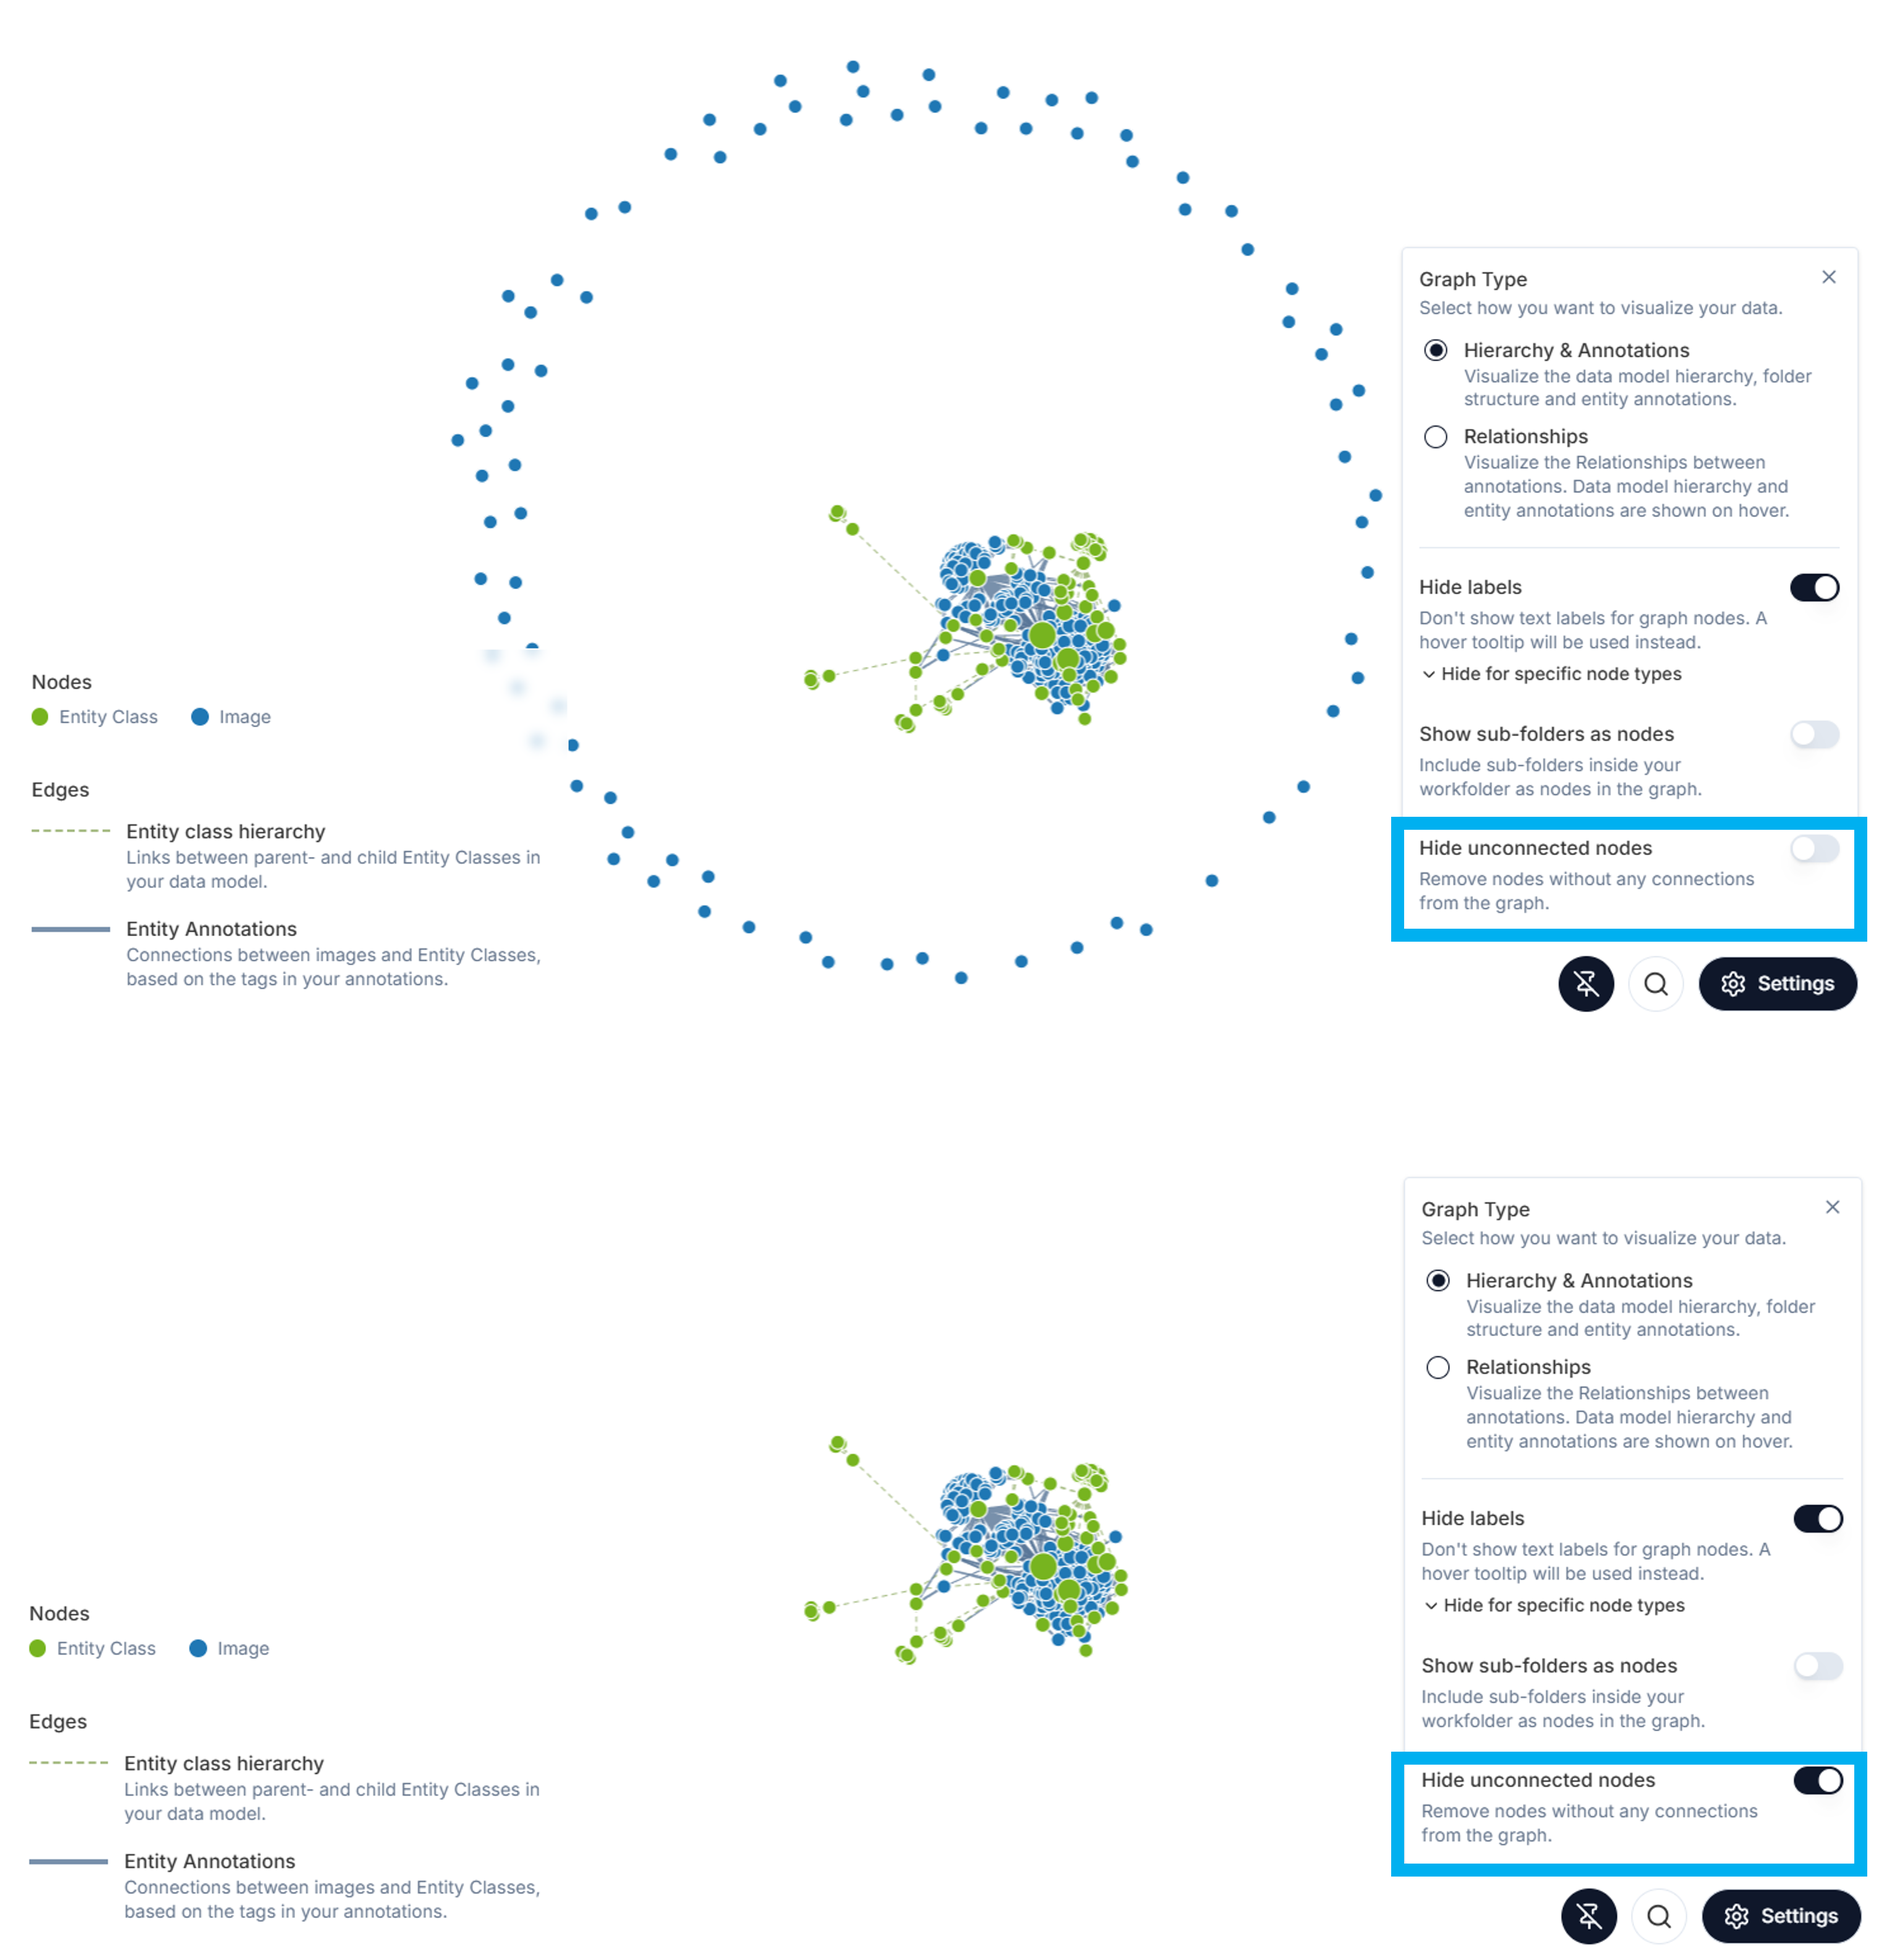
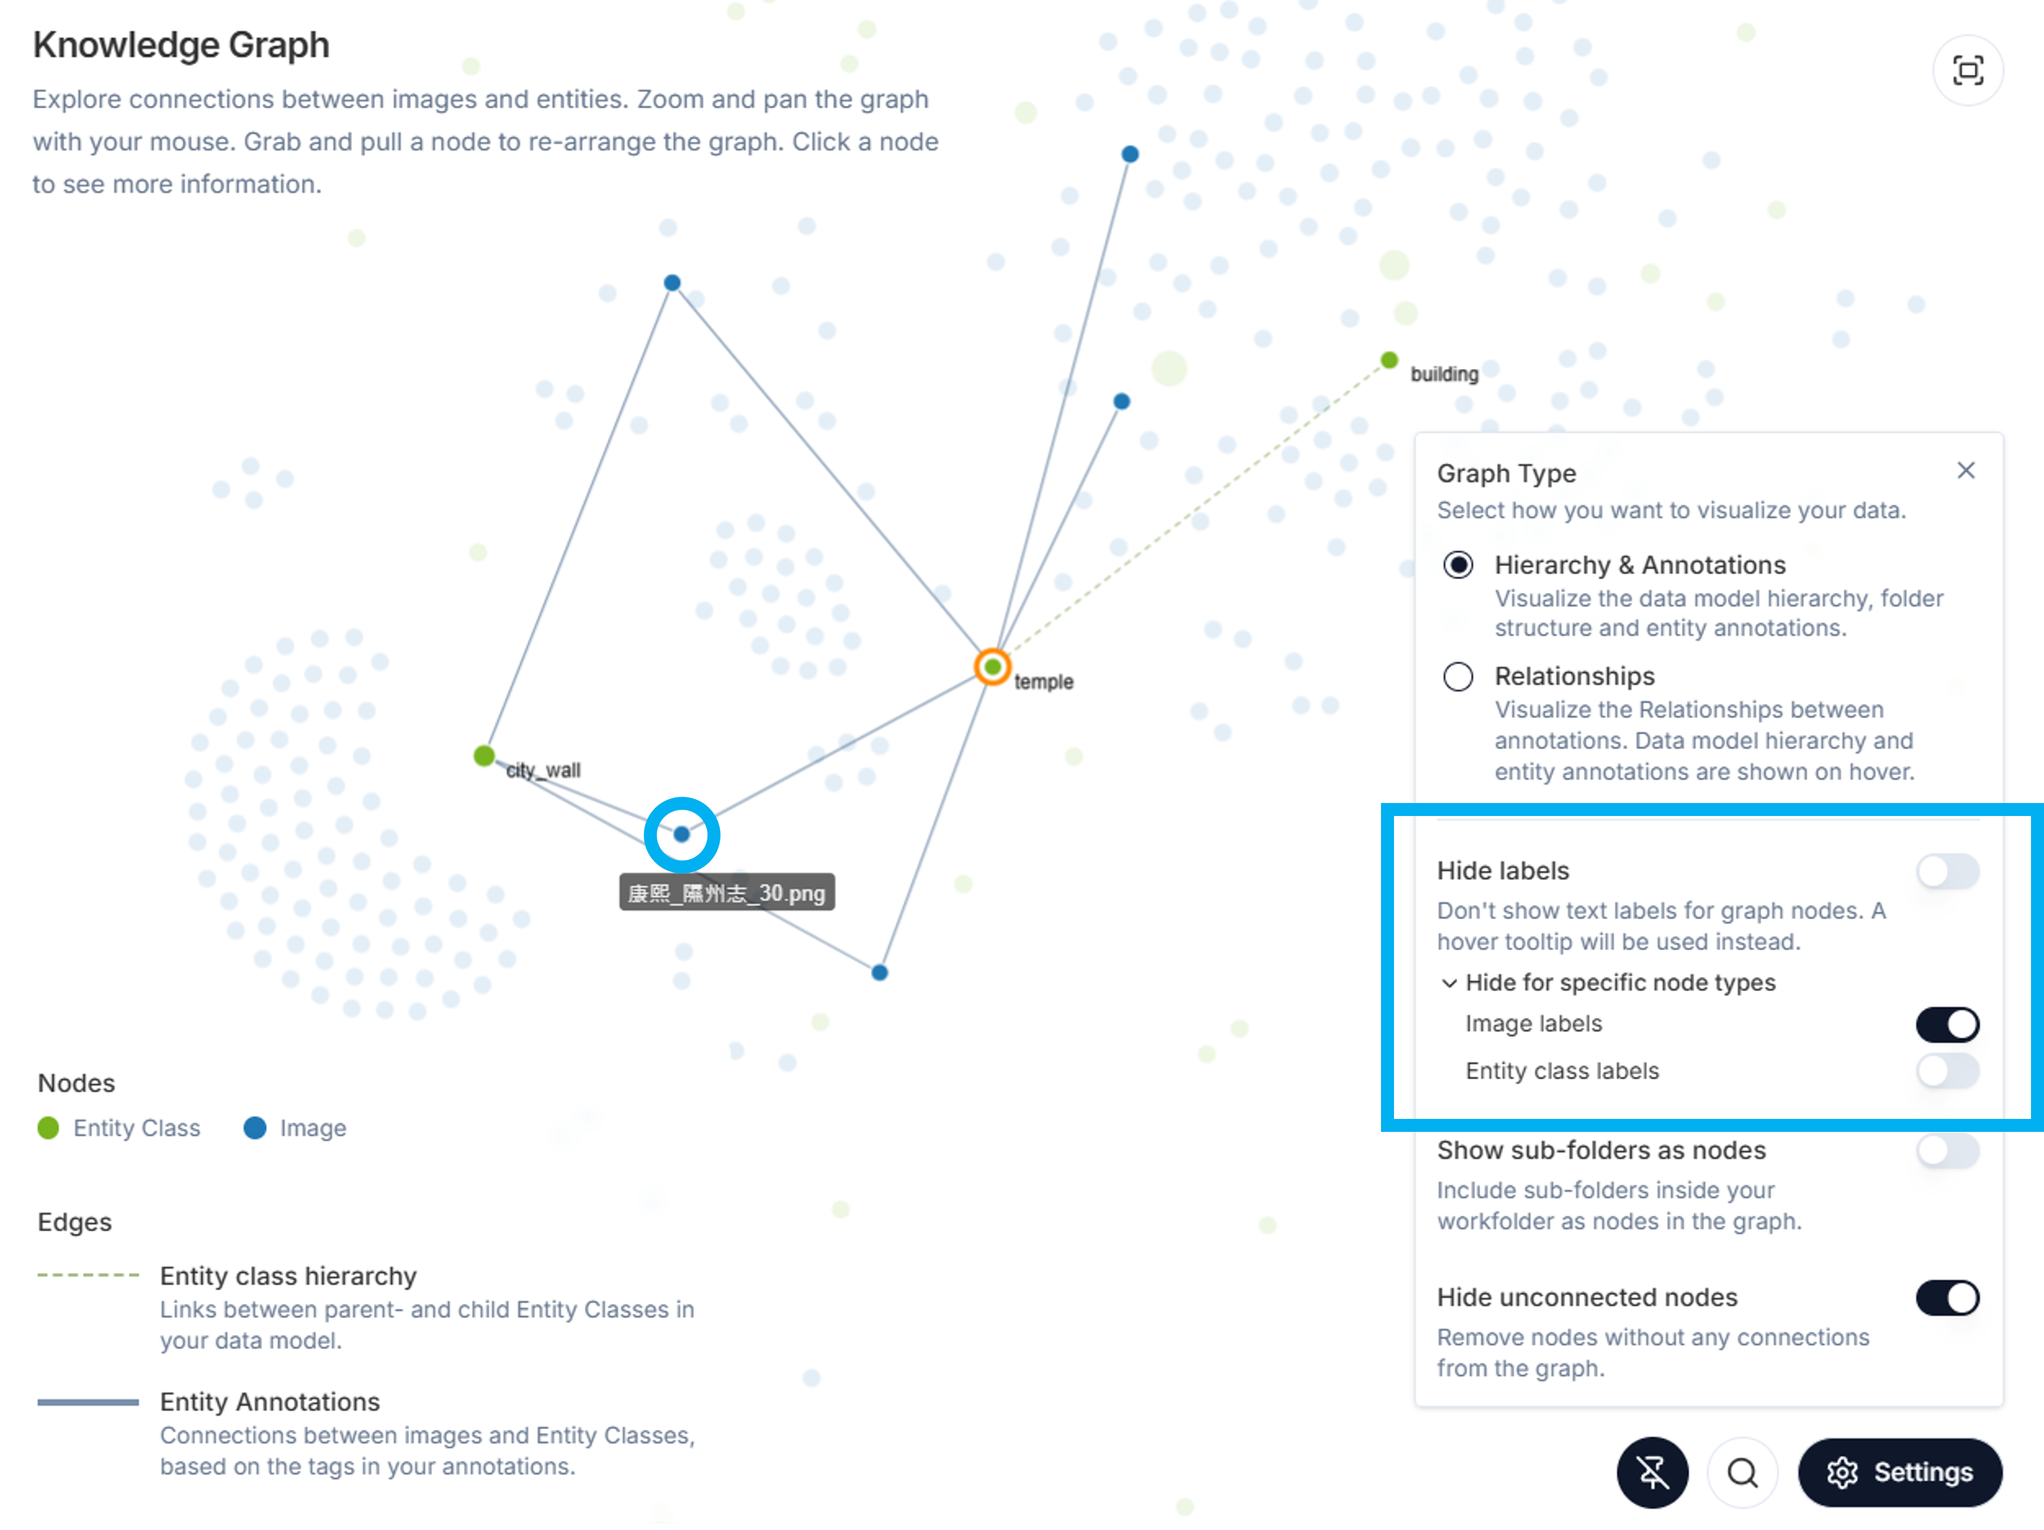
update settings

diff --git a/07-Exploring-Data-in-Knowledge-Graph.md b/07-Exploring-Data-in-Knowledge-Graph.md
@@ -55,35 +55,33 @@ From Settings you can change the way the data is displayed. Clicking on the **Se
 
 You can choose to visualize your data in **Hierarchy & Annotations** mode, which shows the data model structure and entity annotations, or in **Relationships** mode, which shows the relationship annotations you created between entity classes. 
 
-![KG6](update-images/07_exploring-data-in-knowledge-graph_fig6.png)
-**Figure 6.** Choosing **Hierarchy & Annotations** Mode for the Knowledge Graph
+![KG9](update-images/07_exploring-data-in-knowledge-graph_fig9.png)
+**Figure 9.** Choosing **Hierarchy & Annotations** Mode for the Knowledge Graph
 
 
 ## Hide Labels 
 
-**Hide labels** hides text labels from the graph. You can further choose to only hide **Image** labels or **Entity Class** lables. You can view the labels by hovering over nodes (**Figure 7**). 
+**Hide labels** hides text labels from the graph. You can further choose to only hide **Image** labels or **Entity Class** lables. You can view the labels by hovering over nodes (**Figure 10**). 
 
-![KG7](update-images/07_exploring-data-in-knowledge-graph_fig7.png)
-**Figure 7.** Hiding Image Labels in Knowledge Graph with the Label 光緒_代州志_36.jpg Made Visible by Hovering over the Node 
+![KG10](update-images/07_exploring-data-in-knowledge-graph_fig10.png)
+**Figure 10.** Hiding Image Labels in the Knowledge Graph with the Label *康熙_隰州志_30.png* Made Visible by Hovering over the Node 
 
 ## Show Subfolders as Nodes  
 
-**Show subfolders as nodes** allows you to see the distribution of your images and entities across subfolders on the graph (crimson nodes on **Figure 8**)
+**Show subfolders as nodes** allows you to see the distribution of your images and entities across subfolders on the graph (crimson nodes on **Figure 11**)
  
-![KG8](update-images/07_exploring-data-in-knowledge-graph_fig8.png)
-**Figure 8.** Showing Subfolders as Nodes  
-
-By clicking a subfolder node, you can view the total number of images in the folder and access its metadata. To navigate to the subfolder, click the **Open** button (outlined in blue). When you return to the Knowledge Graph page, the browser memory will retain the selected node. 
- 
-![KG9](update-images/07_exploring-data-in-knowledge-graph_fig9.png)
-**Figure 9.** Selecting a Subfolder Node to View Its Metadata 
+![KG11](update-images/07_exploring-data-in-knowledge-graph_fig11.png)
+**Figure 11.** Showing Subfolders as Nodes  
 
 ## Hide Unconnected Nodes  
 
 **Hide unconnected nodes** hides unused entity classes and images without entity annotations and makes the graph less cluttered and focused on annotated content. 
 
-![KG10](update-images/07_exploring-data-in-knowledge-graph_fig10.png)
-**Figure 10.** Hiding Unconnected Nodes
+![KG12a](update-images/07_exploring-data-in-knowledge-graph_fig12a.png)
+**Figure 12a.** Before Selecting "Hide unconnected nodes": Image Nodes without Annotations Displayed as Unconnected Nodes in the Graph
+
+![KG12b](update-images/07_exploring-data-in-knowledge-graph_fig12b.png)
+**Figure 12b.** After Selecting "Hide unconnected nodes": Image Nodes without Annotations are Hidden from the Graph
 
 # Nodes
 You can inspect individual nodes, move them, and pin them on the knowledge graph (**Figure 2**).  Click and drag a node to pin it on the knowledge graph. To unpin a node, click on the pin icon at the bottom of the screen (circled in blue). 
@@ -92,7 +90,7 @@ You can inspect individual nodes, move them, and pin them on the knowledge graph
 **Figure 2.** Pinning a Node (Tower) on the Knowledge Graph 
 
 
-### Entity Class Nodes 
+## Entity Class Nodes 
 
 To see all annotations of a specific entity class click on an entity class node (in this case _stair_) (**Figure 3**). You can see an overview of the related annotations and relationships for this entity class. You can access the individual annotations by clicking on the **open image icon** (circled in **Figure 3**). IMMARKUS will then take you to the individual image in the [Image Gallery](https://github.com/rsimon/immarkus/wiki/03-The-Interface). When you return to the Knowledge Graph, the browser memory will have retained the selected view and node.
 
@@ -100,7 +98,7 @@ To see all annotations of a specific entity class click on an entity class node 
 **Figure 3.** Clicking on an Individual Entity Class to Select it
 
 
-### Image Nodes 
+## Image Nodes 
 
 If you want to see all entity classes and relationships annotated on an individual image, click on an image node (**Figure 4**). You can access the image by clicking on the **open image icon** (circled in **Figure 4**). IMMARKUS will then take you to the individual image in the [Image Gallery](https://github.com/rsimon/immarkus/wiki/03-The-Interface). When you return to the Knowledge Graph, the browser memory will have retained the selected view and node. 
 
@@ -114,6 +112,12 @@ To view and modify image metadata in the **Knowledge Graph** view, select an ima
 
 To deselect a node in order to explore other nodes, click any where outside the selection or close the right panel.
 
+## Subfolder Nodes 
+
+By clicking a subfolder node, you can view the total number of images in the folder and access its metadata. To navigate to the subfolder, click the **Open** button (outlined in blue). When you return to the Knowledge Graph page, the browser memory will retain the selected node. 
+ 
+![KG9](update-images/07_exploring-data-in-knowledge-graph_fig9.png)
+**Figure 9.** Selecting a Subfolder Node to View Its Metadata 
 
 
 
